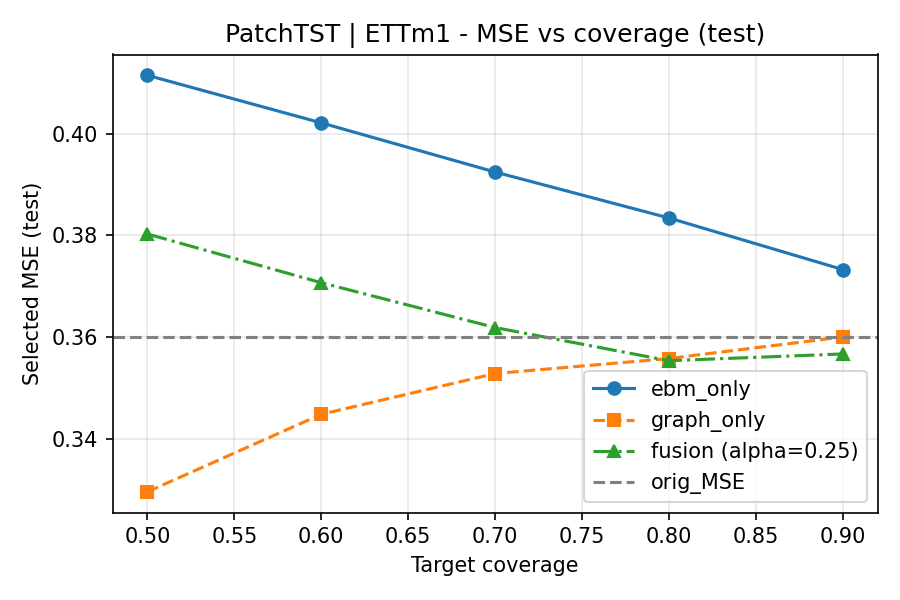
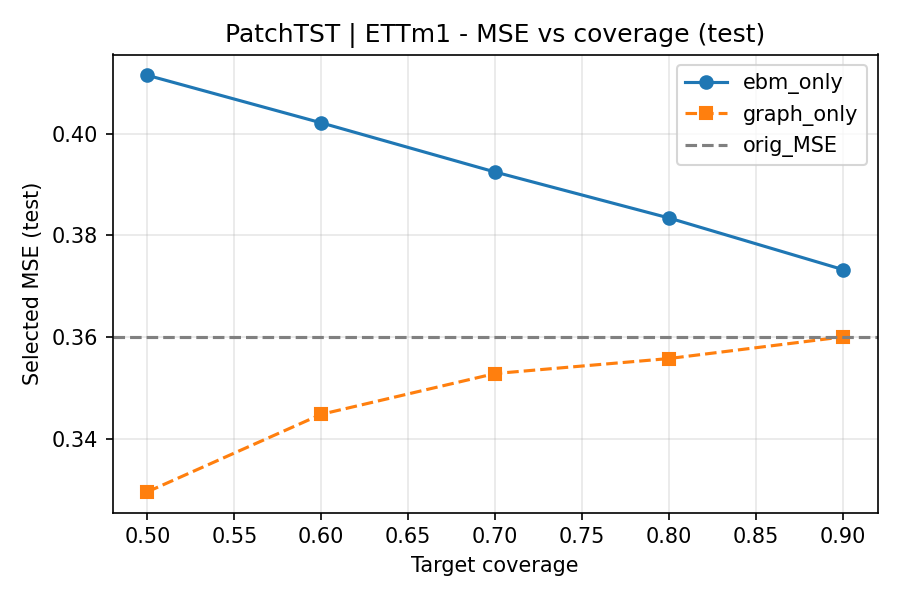
no-fusion-ploy

diff --git a/scripts/export_backbone_full_mse_latex.py b/scripts/export_backbone_full_mse_latex.py
@@ -1,0 +1,138 @@
+#!/usr/bin/env python3
+"""Generate a LaTeX table: full-split test MSE without selective inference (split_mse_orig).
+
+Reads ebm_graph_fusion_*_metrics.csv produced by compare_ebm_graph_fusion.py. For each
+dataset and backbone, split_mse_orig is the MSE over all test samples (no energy gate).
+One row per (dataset, model) is taken from method=ebm_only (values match across methods).
+"""
+
+from __future__ import annotations
+
+import argparse
+import csv
+from pathlib import Path
+
+
+def _repo_root() -> Path:
+    return Path(__file__).resolve().parent.parent
+
+
+def _fmt(x: float | None) -> str:
+    if x is None:
+        return "---"
+    return f"{float(x):.4f}"
+
+
+def _load_orig_mse(
+    rows: list[dict], *, split: str, method: str
+) -> dict[tuple[str, str], float]:
+    """(dataset, model) -> split_mse_orig."""
+    out: dict[tuple[str, str], float] = {}
+    for r in rows:
+        if r.get("split") != split or r.get("method") != method:
+            continue
+        ds = str(r["dataset"])
+        m = str(r["model"])
+        key = (ds, m)
+        if key in out:
+            continue
+        out[key] = float(r["split_mse_orig"])
+    return out
+
+
+def build_tex(
+    L: dict[tuple[str, str], float],
+    datasets: list[str],
+    models: list[str],
+    *,
+    split: str,
+) -> str:
+    if split == "test":
+        cap = "Full-split MSE without selective inference on the test set (lower is better)."
+    else:
+        cap = (
+            f"Full-split MSE without selective inference on the {split} split "
+            "(lower is better)."
+        )
+    lines: list[str] = [
+        "% Auto-generated by scripts/export_backbone_full_mse_latex.py",
+        "% MSE = split_mse_orig: MSE over all samples in the split (no energy-based selection).",
+        "% Preamble: \\usepackage{booktabs,graphicx}",
+        "\\begin{table*}[t]",
+        "\\centering",
+        "\\caption{" + cap + "}",
+        "\\label{tab:backbone_full_mse}",
+        "\\resizebox{\\textwidth}{!}{%",
+        "\\begin{tabular}{l" + "r" * len(models) + "}",
+        "\\toprule",
+        "Dataset & " + " & ".join(models) + " \\\\",
+        "\\midrule",
+    ]
+    for ds in datasets:
+        row = [ds.replace("_", "\\_")]
+        for m in models:
+            row.append(_fmt(L.get((ds, m))))
+        lines.append(" & ".join(row) + " \\\\")
+    lines.append("\\bottomrule")
+    lines.append("\\end{tabular}")
+    lines.append("}")
+    lines.append("\\end{table*}")
+    lines.append("")
+    return "\n".join(lines)
+
+
+def main() -> None:
+    ap = argparse.ArgumentParser()
+    ap.add_argument(
+        "--csv",
+        type=Path,
+        default=_repo_root() / "ebm_graph_fusion_test_metrics.csv",
+        help="Input CSV (test metrics)",
+    )
+    ap.add_argument(
+        "-o",
+        "--output",
+        type=Path,
+        default=_repo_root() / "docs" / "ebm_graph_backbone_full_mse_test.tex",
+    )
+    ap.add_argument(
+        "--split",
+        default="test",
+        help="Which split column value to use",
+    )
+    ap.add_argument(
+        "--method",
+        default="ebm_only",
+        help="Which method row to read split_mse_orig from (same for all methods)",
+    )
+    args = ap.parse_args()
+
+    with open(args.csv, newline="", encoding="utf-8") as f:
+        rows = list(csv.DictReader(f))
+
+    L = _load_orig_mse(rows, split=args.split, method=args.method)
+
+    preferred = [
+        "ETTh1",
+        "ETTh2",
+        "ETTm1",
+        "ETTm2",
+        "electricity",
+        "traffic",
+        "weather",
+    ]
+    all_ds = sorted({k[0] for k in L})
+    datasets = [d for d in preferred if d in set(all_ds)] + [
+        d for d in all_ds if d not in preferred
+    ]
+
+    models = sorted({k[1] for k in L})
+
+    tex = build_tex(L, datasets, models, split=args.split)
+    args.output.parent.mkdir(parents=True, exist_ok=True)
+    args.output.write_text(tex, encoding="utf-8")
+    print(f"Wrote {args.output} ({len(L)} cells)")
+
+
+if __name__ == "__main__":
+    main()

diff --git a/scripts/plot_ebm_graph_fusion_curves.py b/scripts/plot_ebm_graph_fusion_curves.py
@@ -1,12 +1,17 @@
+import argparse
 import os
 from pathlib import Path
 
-import numpy as np
 import pandas as pd
 import matplotlib.pyplot as plt
 
 
-def plot_mse_curves(csv_path: str, output_dir: str = "plots_ebm_graph_fusion") -> None:
+def plot_mse_curves(
+    csv_path: str,
+    output_dir: str = "plots_ebm_graph_fusion",
+    *,
+    include_fusion: bool = False,
+) -> None:
     df = pd.read_csv(csv_path)
 
     # 只看 test split
@@ -18,9 +23,11 @@ def plot_mse_curves(csv_path: str, output_dir: str = "plots_ebm_graph_fusion") -
     out_dir = Path(output_dir)
     out_dir.mkdir(parents=True, exist_ok=True)
 
-    methods = ["ebm_only", "graph_only", "fusion"]
+    methods = ["ebm_only", "graph_only"]
+    if include_fusion:
+        methods.append("fusion")
 
-    # 使用不同的线型和 marker，让三种方法在图上更容易区分；
+    # 使用不同的线型和 marker，让各条线在图上更容易区分；
     # 即便数值完全重合，至少可以从图例和样式上看出它们都存在。
     line_styles = {
         "ebm_only": "-",
@@ -148,7 +155,29 @@ def plot_mse_curves(csv_path: str, output_dir: str = "plots_ebm_graph_fusion") -
 
 
 if __name__ == "__main__":
-    csv_path = "ebm_graph_fusion_test_metrics.csv"
-    if not os.path.exists(csv_path):
-        raise FileNotFoundError(f"CSV not found: {csv_path}")
-    plot_mse_curves(csv_path)
+    parser = argparse.ArgumentParser(
+        description="Plot test coverage→MSE curves from compare_ebm_graph_fusion.py output."
+    )
+    parser.add_argument(
+        "--csv",
+        type=str,
+        default="ebm_graph_fusion_test_metrics.csv",
+        help="Path to ebm_graph_fusion_test_metrics.csv.",
+    )
+    parser.add_argument(
+        "--output-dir",
+        type=str,
+        default="plots_ebm_graph_fusion",
+        help="Directory to write PNGs (default: plots_ebm_graph_fusion).",
+    )
+    parser.add_argument(
+        "--include-fusion",
+        action="store_true",
+        help="Also plot fusion curves (default: only TEM / ebm_only and graph_only).",
+    )
+    args = parser.parse_args()
+    if not os.path.exists(args.csv):
+        raise FileNotFoundError(f"CSV not found: {args.csv}")
+    plot_mse_curves(
+        args.csv, output_dir=args.output_dir, include_fusion=args.include_fusion
+    )

diff --git a/docs/ebm_graph_backbone_full_mse_test.tex b/docs/ebm_graph_backbone_full_mse_test.tex
@@ -1,0 +1,23 @@
+% Auto-generated by scripts/export_backbone_full_mse_latex.py
+% MSE = split_mse_orig: MSE over all samples in the split (no energy-based selection).
+% Preamble: \usepackage{booktabs,graphicx}
+\begin{table*}[t]
+\centering
+\caption{Full-split MSE without selective inference on the test set (lower is better).}
+\label{tab:backbone_full_mse}
+\resizebox{\textwidth}{!}{%
+\begin{tabular}{lrrrr}
+\toprule
+Dataset & Autoformer & FEDformer & PatchTST & TimesNet \\
+\midrule
+ETTh1 & 0.4388 & 0.4049 & 0.3838 & 0.3879 \\
+ETTh2 & 0.3011 & 0.3159 & 0.2569 & 0.2629 \\
+ETTm1 & 0.4411 & 0.4509 & 0.3601 & 0.3127 \\
+ETTm2 & 0.1719 & 0.1744 & 0.1586 & 0.1426 \\
+electricity & 0.2920 & 0.1901 & 0.2030 & 0.1645 \\
+traffic & 0.9791 & 0.7061 & 0.5903 & 0.5839 \\
+weather & 0.2386 & 0.3040 & 0.1687 & 0.1377 \\
+\bottomrule
+\end{tabular}
+}
+\end{table*}
